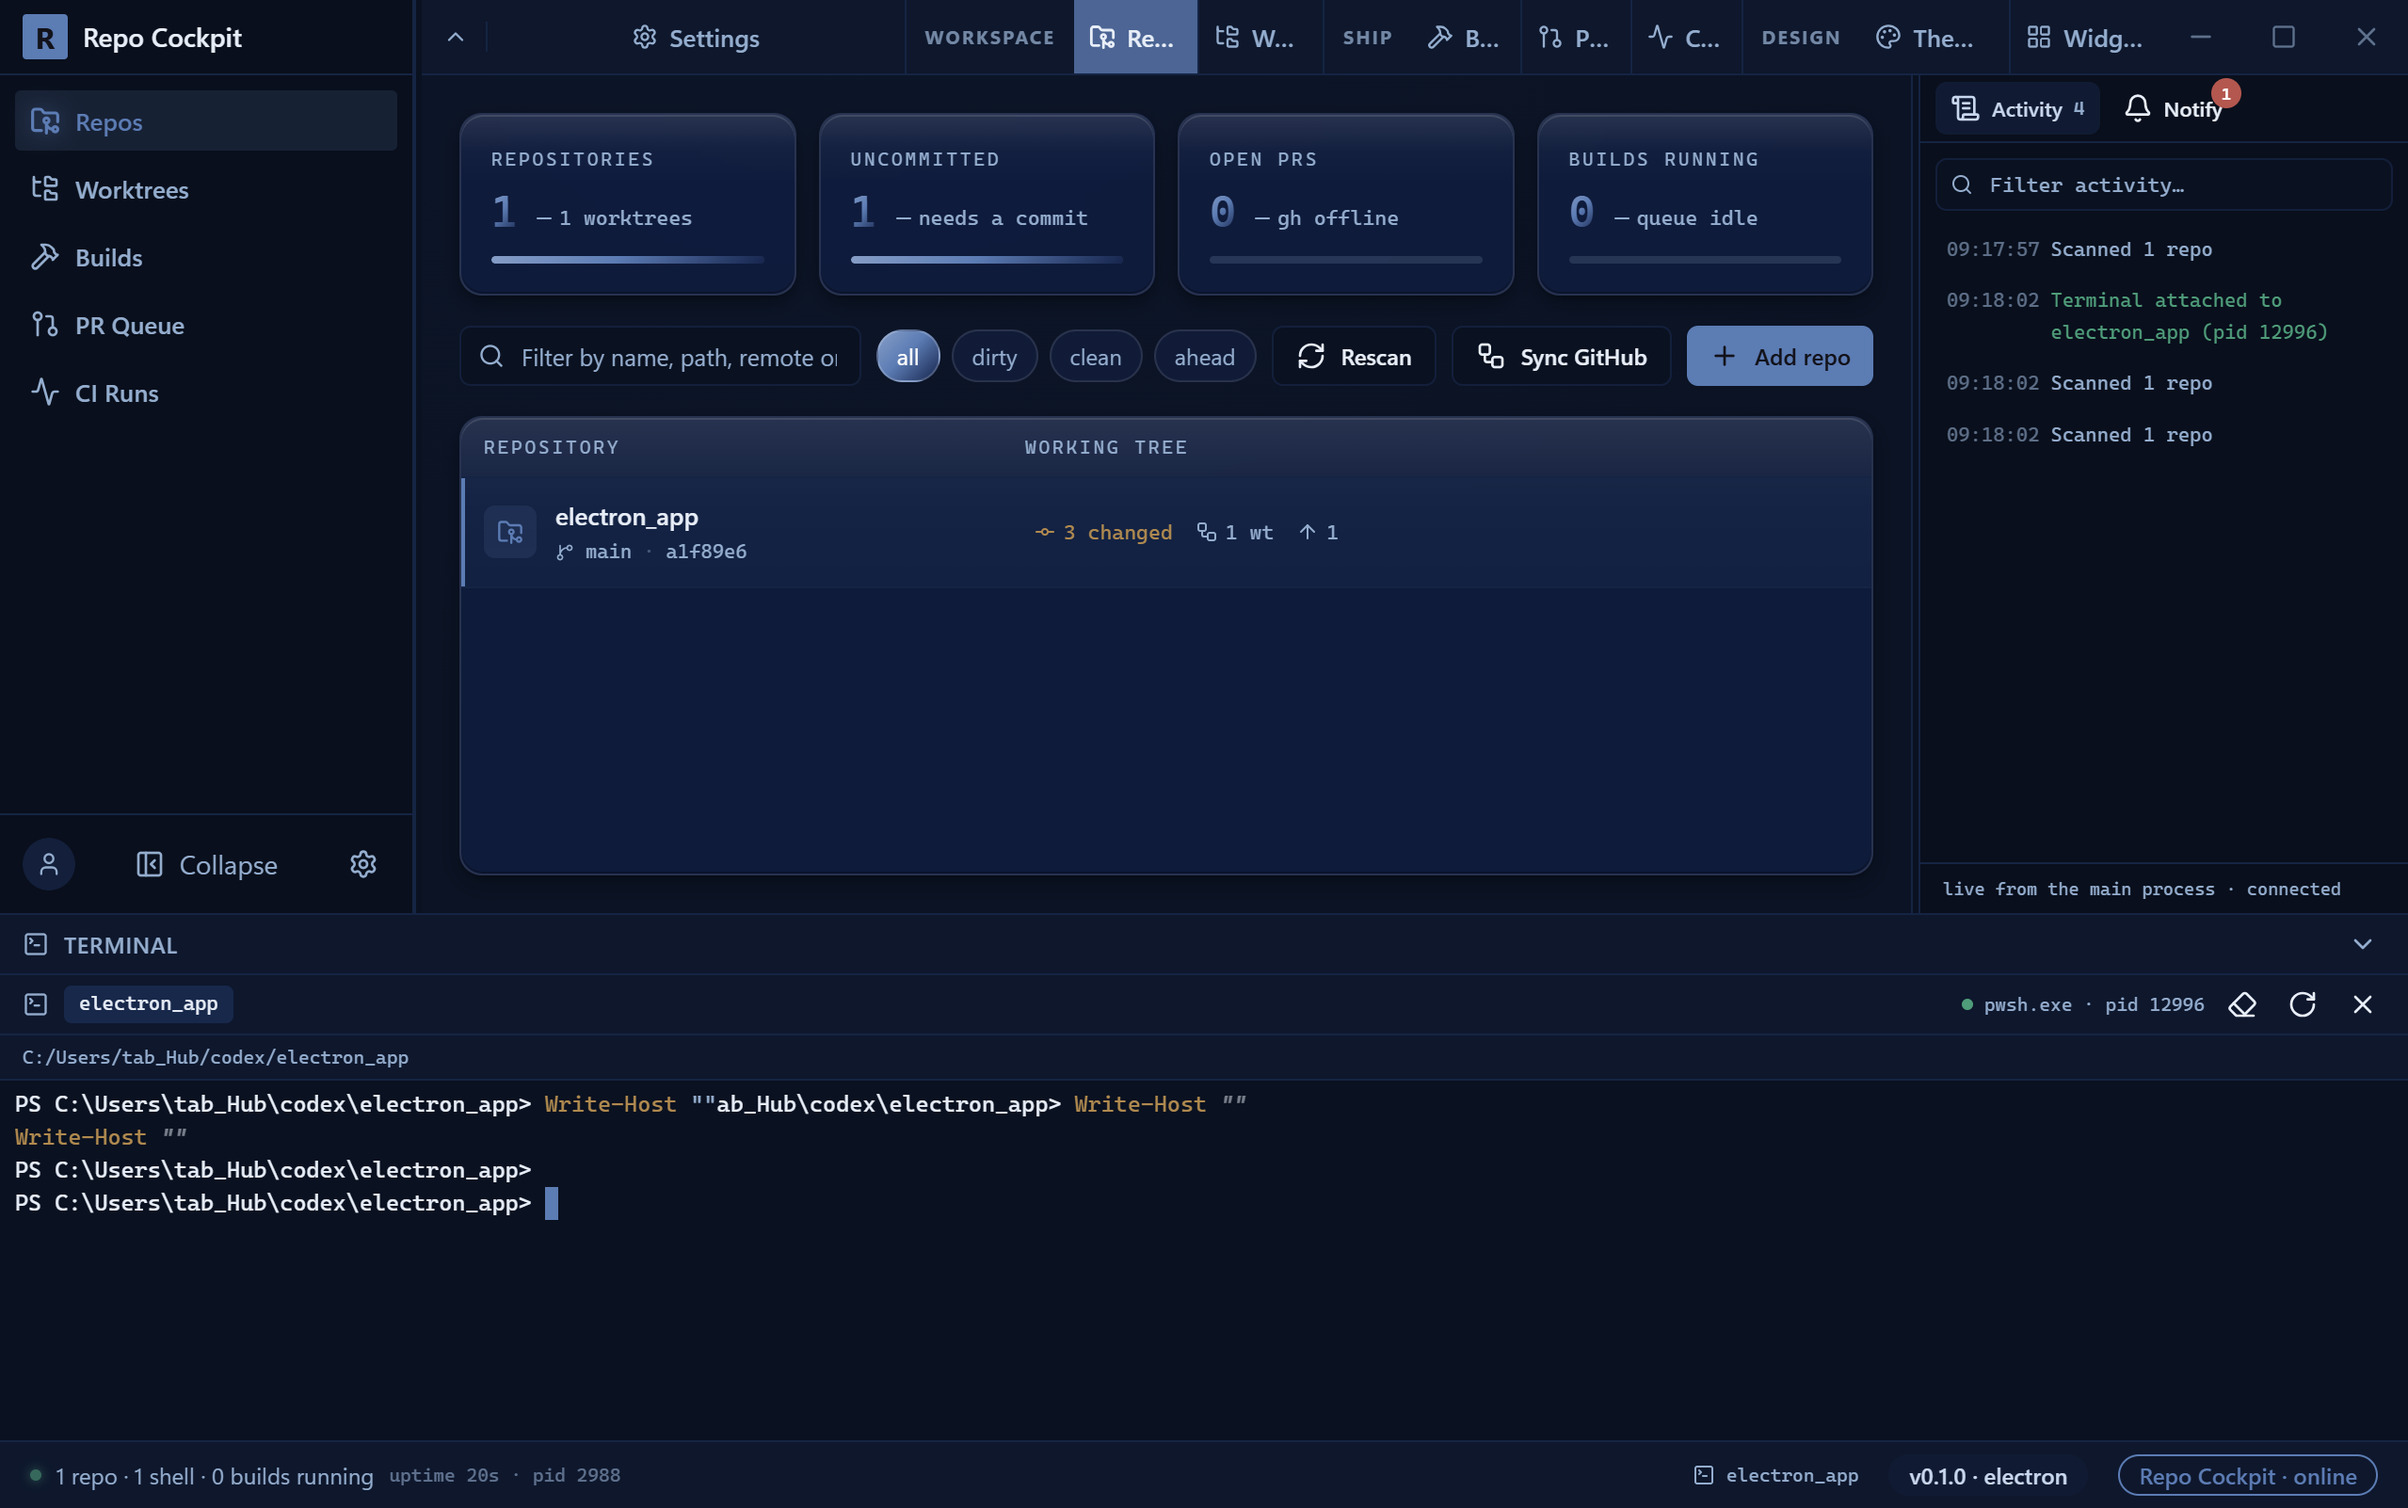
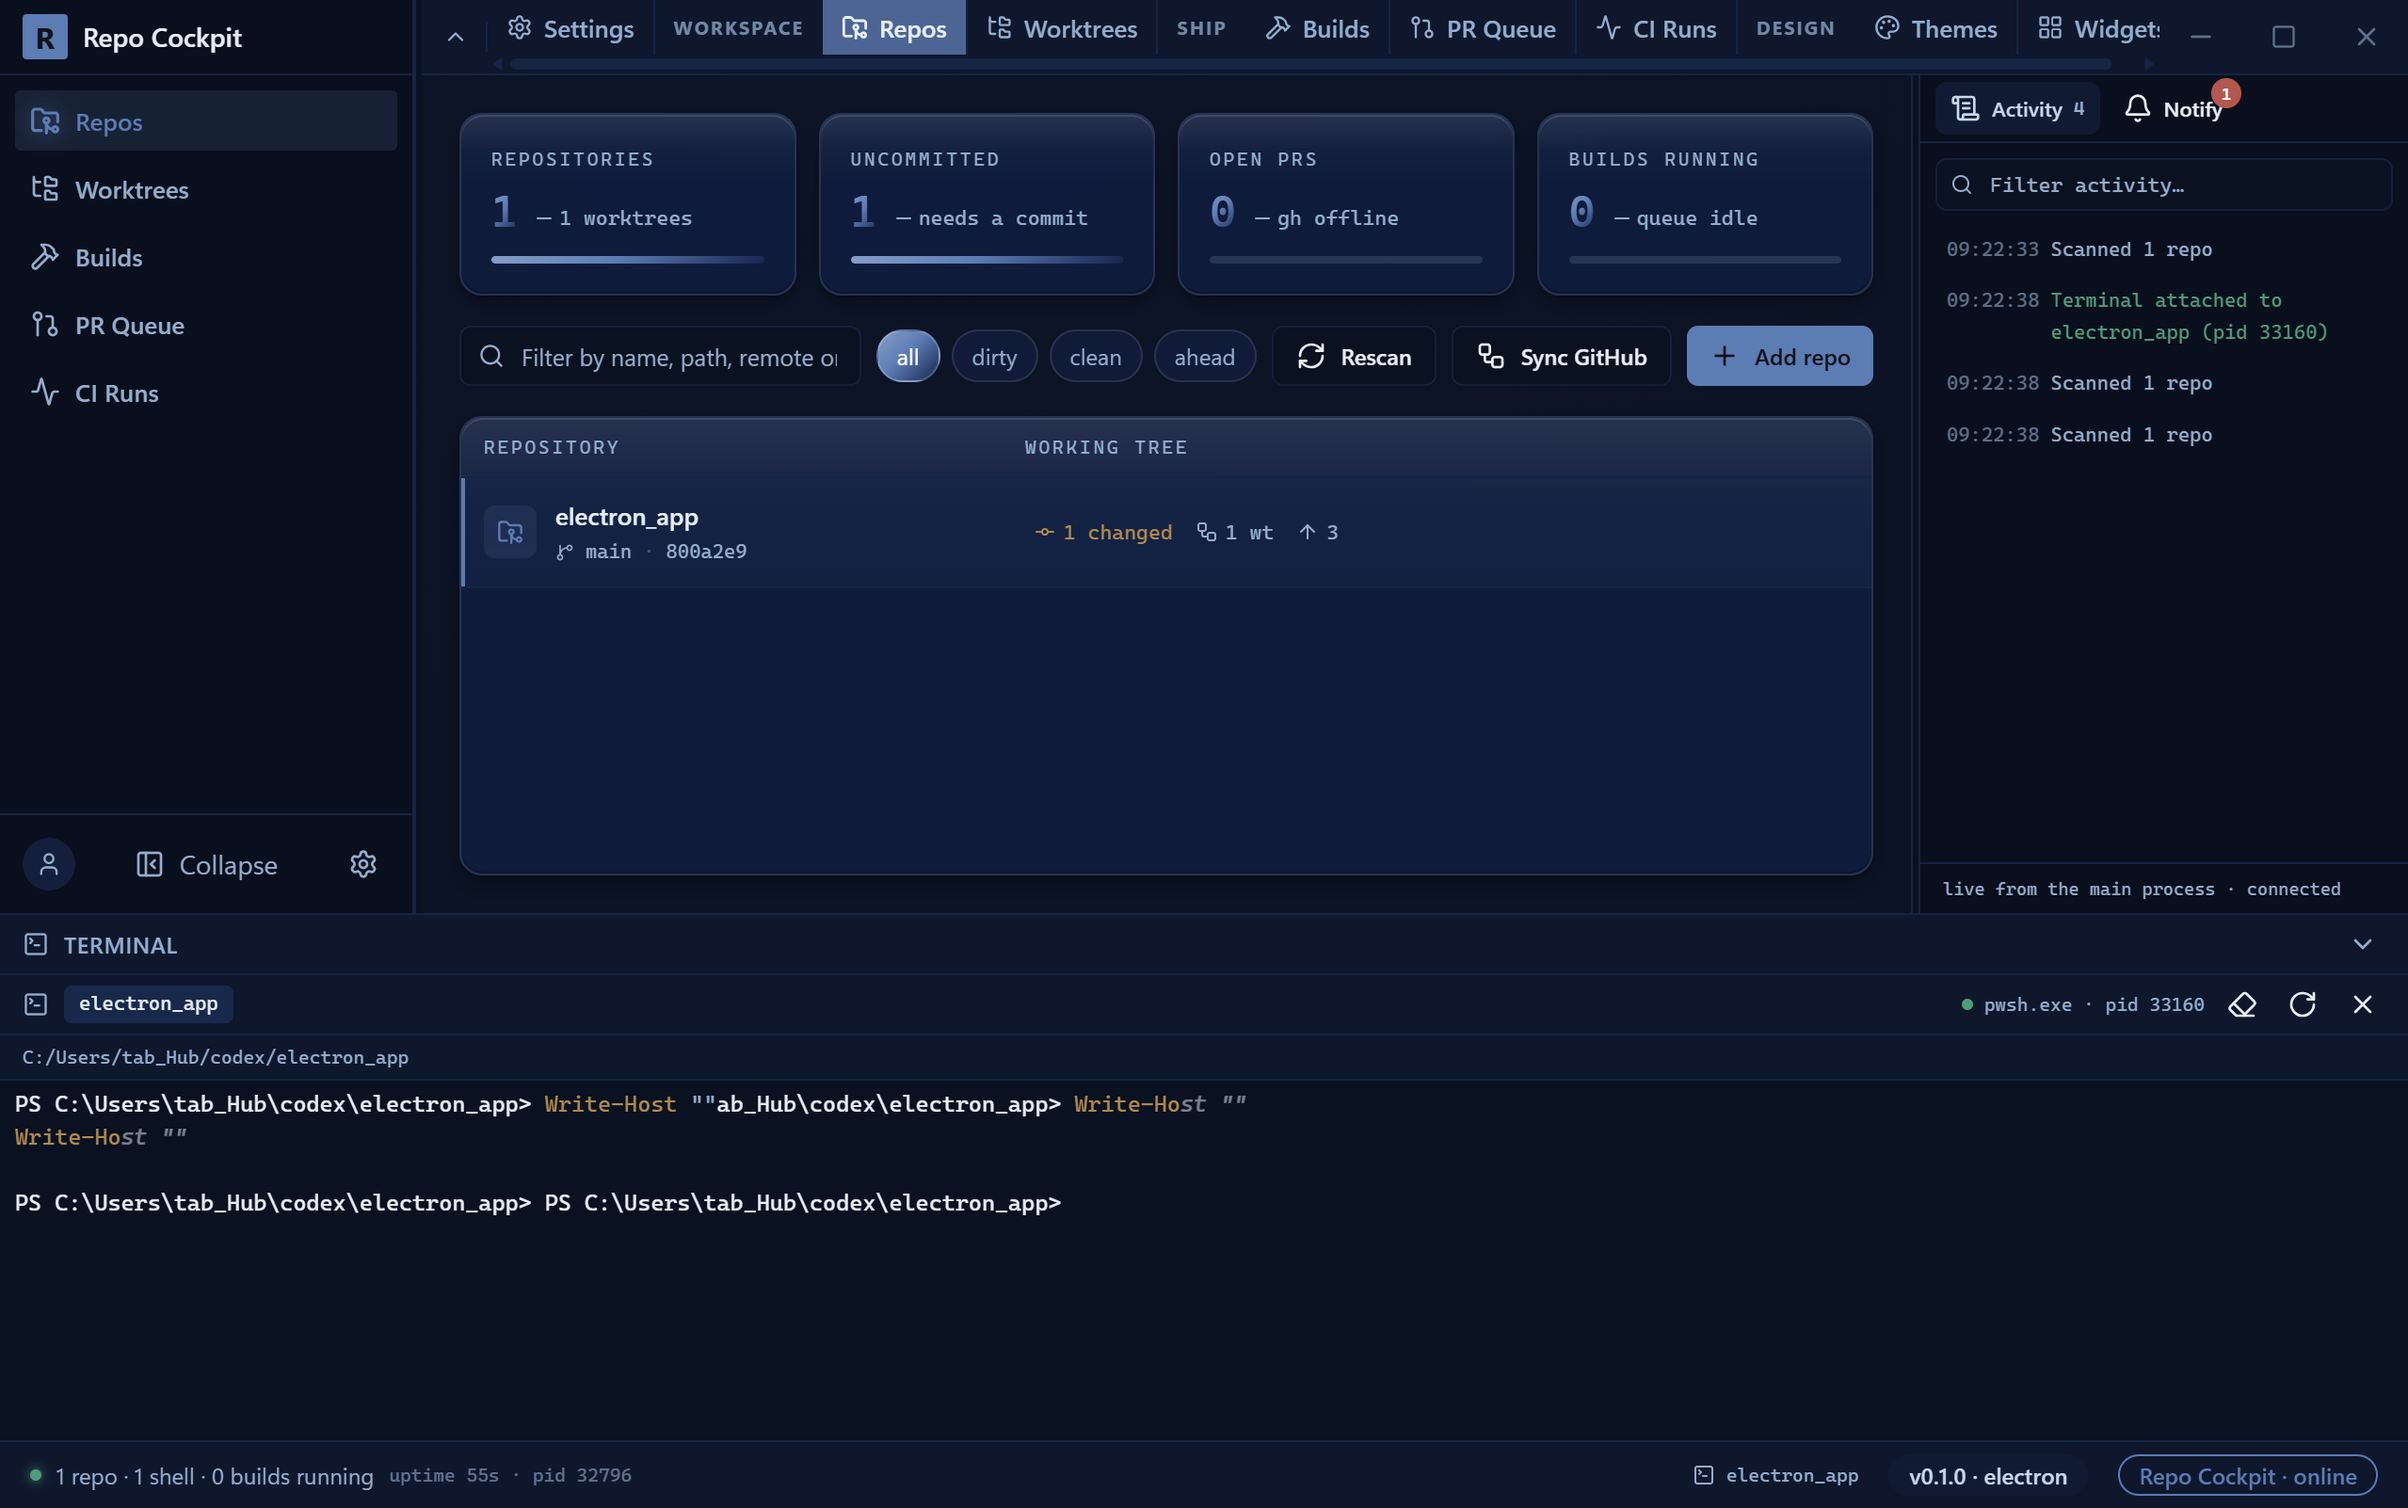
fix(shell): stop the top bar from mis-sizing and truncating its own tabs
Measured in the live window: the Settings segment was 316px wide to hold a 48px
label, while the three-page SHIP group was squeezed to 90px per tab and cut
"PR Queue" to "PRQ…". Both came from one rule — the strip gave every group an
equal 25% share:

  - a group with one page (uncategorized Settings) sprawled over a quarter of
    the bar;
  - a group with three pages got the same quarter, so its tabs truncated.

Now the strip grows in proportion to each group's page count, each tab sizes to
its content (`flex: 1 1 auto` instead of `flex: 1`, which forced equal widths
regardless of label), and `minWidth: max-content` + `flexShrink: 0` guarantee a
label is never cut. When the window is genuinely too narrow the strip scrolls —
it already had `overflow-x-auto` — rather than silently lying about its items.

Verified over CDP: TRUNCATED_COUNT 0 (was 1, then 4 during the fix), Settings
111px (was 316px), all eight labels read in full, terminal still live,
no error boundary.

Also adds scripts/cdp-read-ui.py's truncation check implicitly: any future tab
change can be validated by asserting scrollWidth <= clientWidth per label.

diff --git a/src/renderer/src/components/shell/TabBar.tsx b/src/renderer/src/components/shell/TabBar.tsx
@@ -98,8 +98,26 @@ export function TabBar({ pages, platform }: TabBarProps) {
             {all.map((group, gi) => (
               <div
                 key={group.category ?? group.pages[0].id}
-                className="flex min-w-0 flex-1"
+                className="flex"
                 style={{
+                  /*
+                   * Share the strip by CONTENT, and never shrink below it.
+                   *
+                   * Two different failures came from equal-per-group flex:
+                   *  - a lone uncategorized page sprawled across a quarter of the
+                   *    bar (Settings at 316px for a 48px label), while
+                   *  - the three-page SHIP group truncated "PR Queue" to "PRQ…".
+                   *
+                   * `flexGrow` proportional to the page count distributes free
+                   * space fairly on a wide window; `minWidth: max-content` +
+                   * `flexShrink: 0` guarantee a label is NEVER cut — when the
+                   * window is too narrow the strip scrolls (it is already
+                   * `overflow-x-auto`) instead of lying about its own items.
+                   */
+                  flexGrow: Math.max(1, group.pages.length),
+                  flexShrink: 0,
+                  flexBasis: 'auto',
+                  minWidth: 'max-content',
                   borderRight: gi < all.length - 1 ? '1px solid hsl(var(--border))' : undefined
                 }}
               >
@@ -120,11 +138,11 @@ export function TabBar({ pages, platform }: TabBarProps) {
                       key={page.id}
                       onClick={() => setActive(page.id)}
                       className={cn(
-                        'flex min-w-0 items-center justify-center gap-1.5 px-2 text-[13px] font-medium transition-colors whitespace-nowrap',
+                        'flex shrink-0 items-center justify-center gap-1.5 whitespace-nowrap px-2.5 text-[13px] font-medium transition-colors',
                         active ? '' : 'hover:bg-tab-hover-bg text-muted-foreground'
                       )}
                       style={{
-                        flex: width ?? 1,
+                        flex: width ?? '1 1 auto',
                         borderRadius: 0,
                         background: active ? 'hsl(var(--tab-active-bg))' : 'transparent',
                         color: active ? 'hsl(var(--tab-active-fg))' : undefined,
@@ -134,7 +152,7 @@ export function TabBar({ pages, platform }: TabBarProps) {
                       aria-current={active ? 'page' : undefined}
                     >
                       <Icon className={cn('h-3.5 w-3.5 shrink-0', active && 'stroke-[2.4]')} />
-                      <span className="truncate">{page.label}</span>
+                      <span>{page.label}</span>
                     </button>
                   )
                 })}
